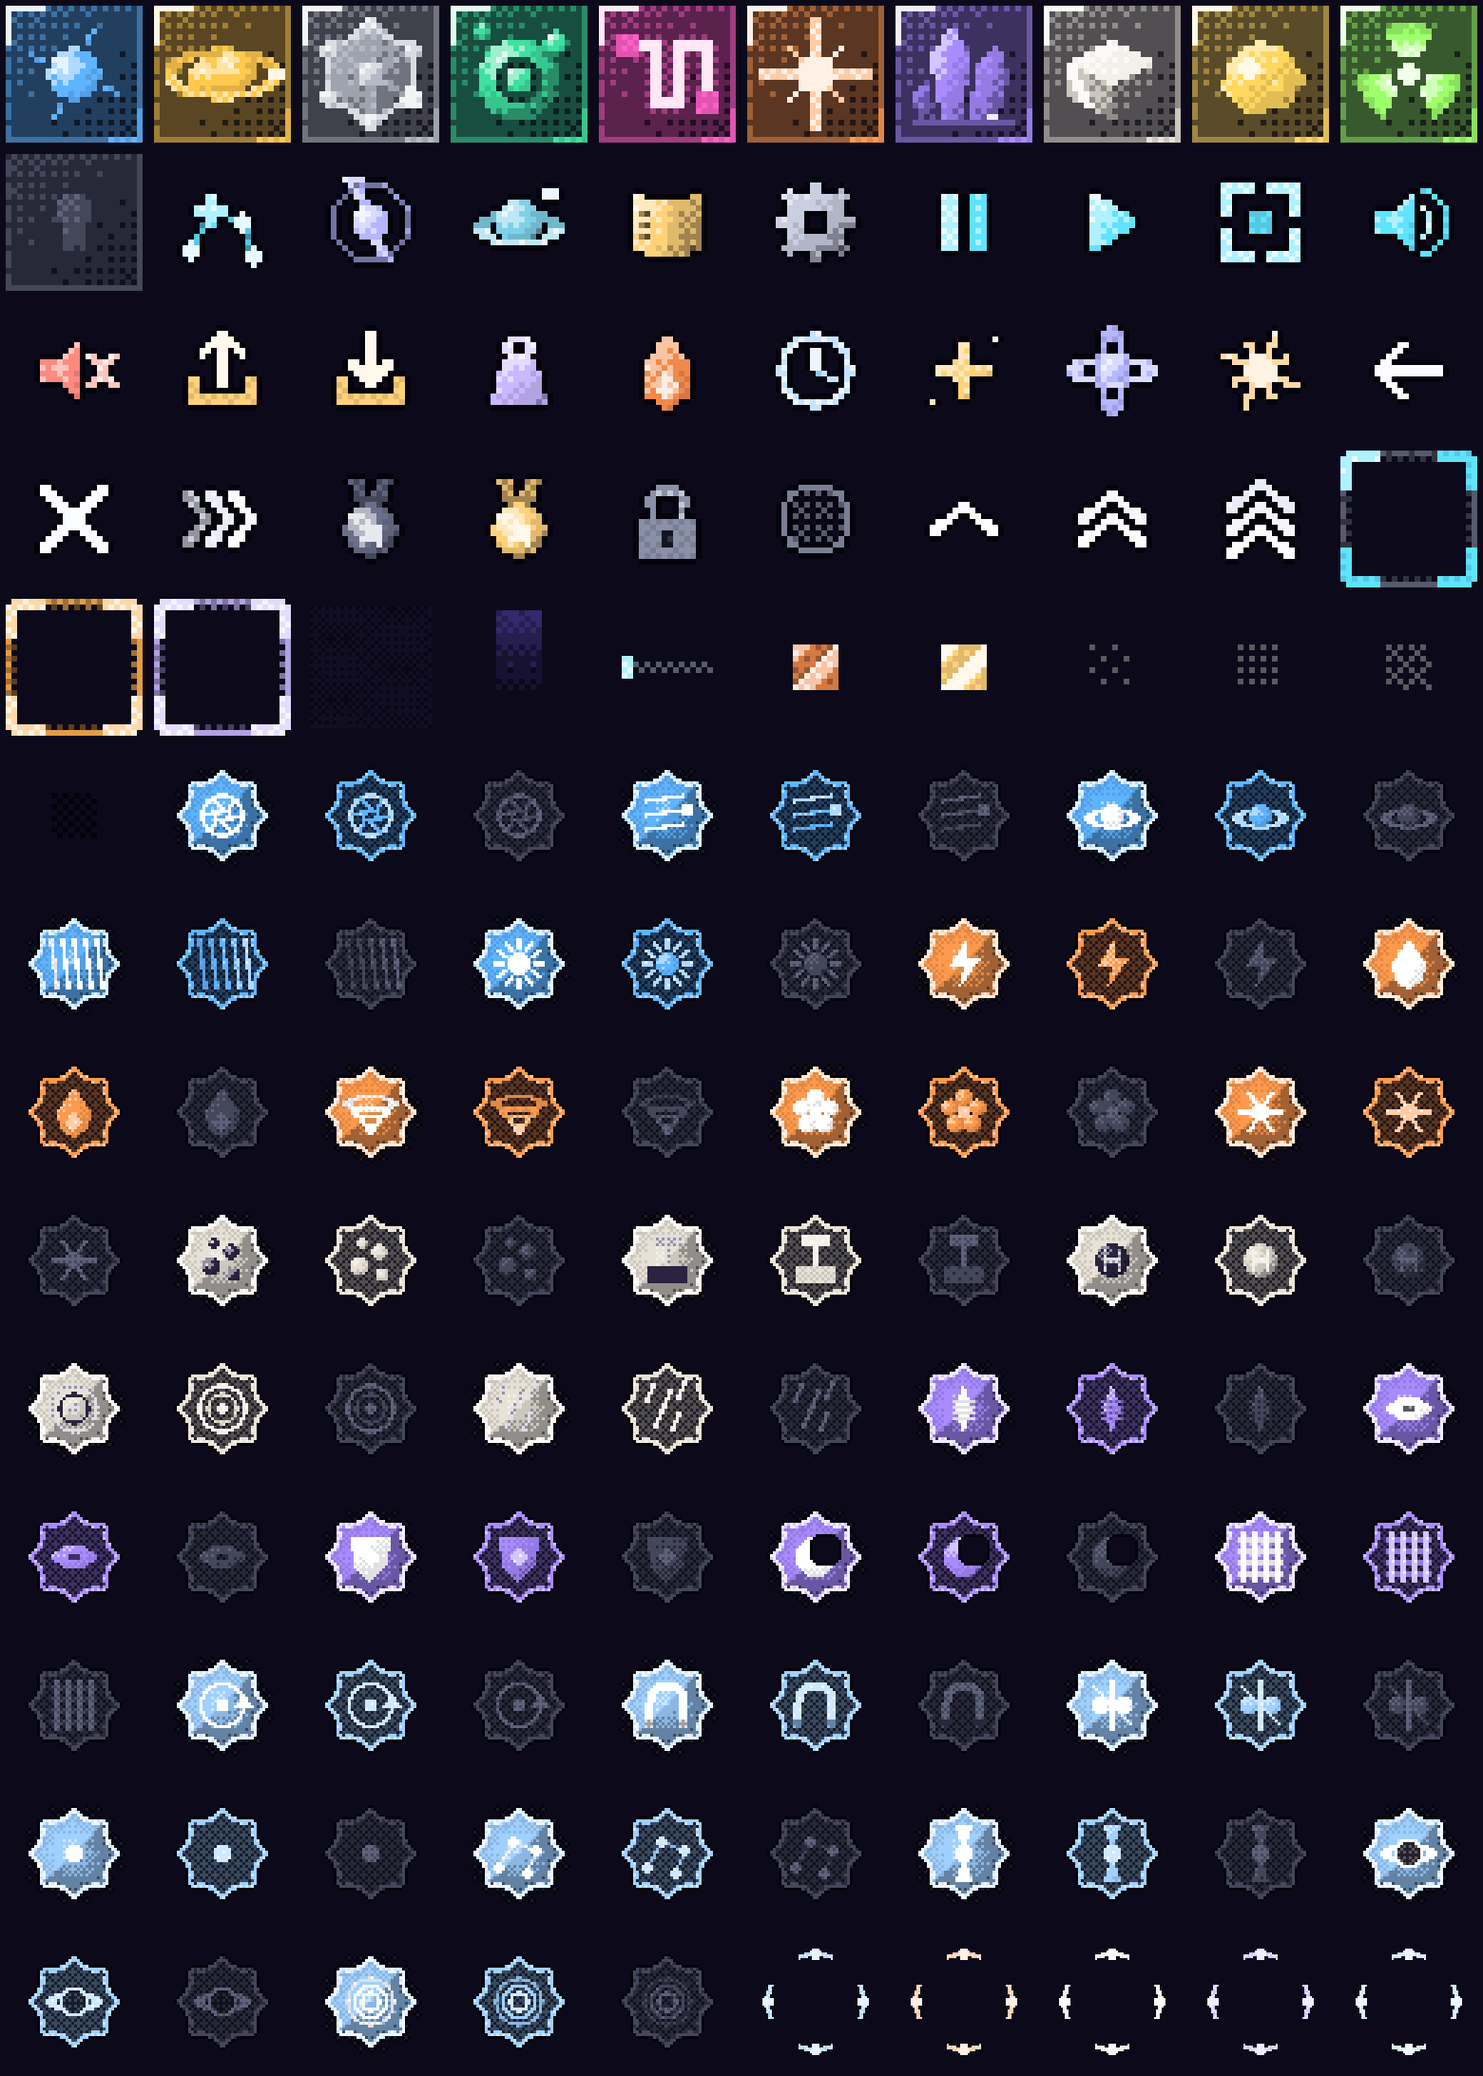
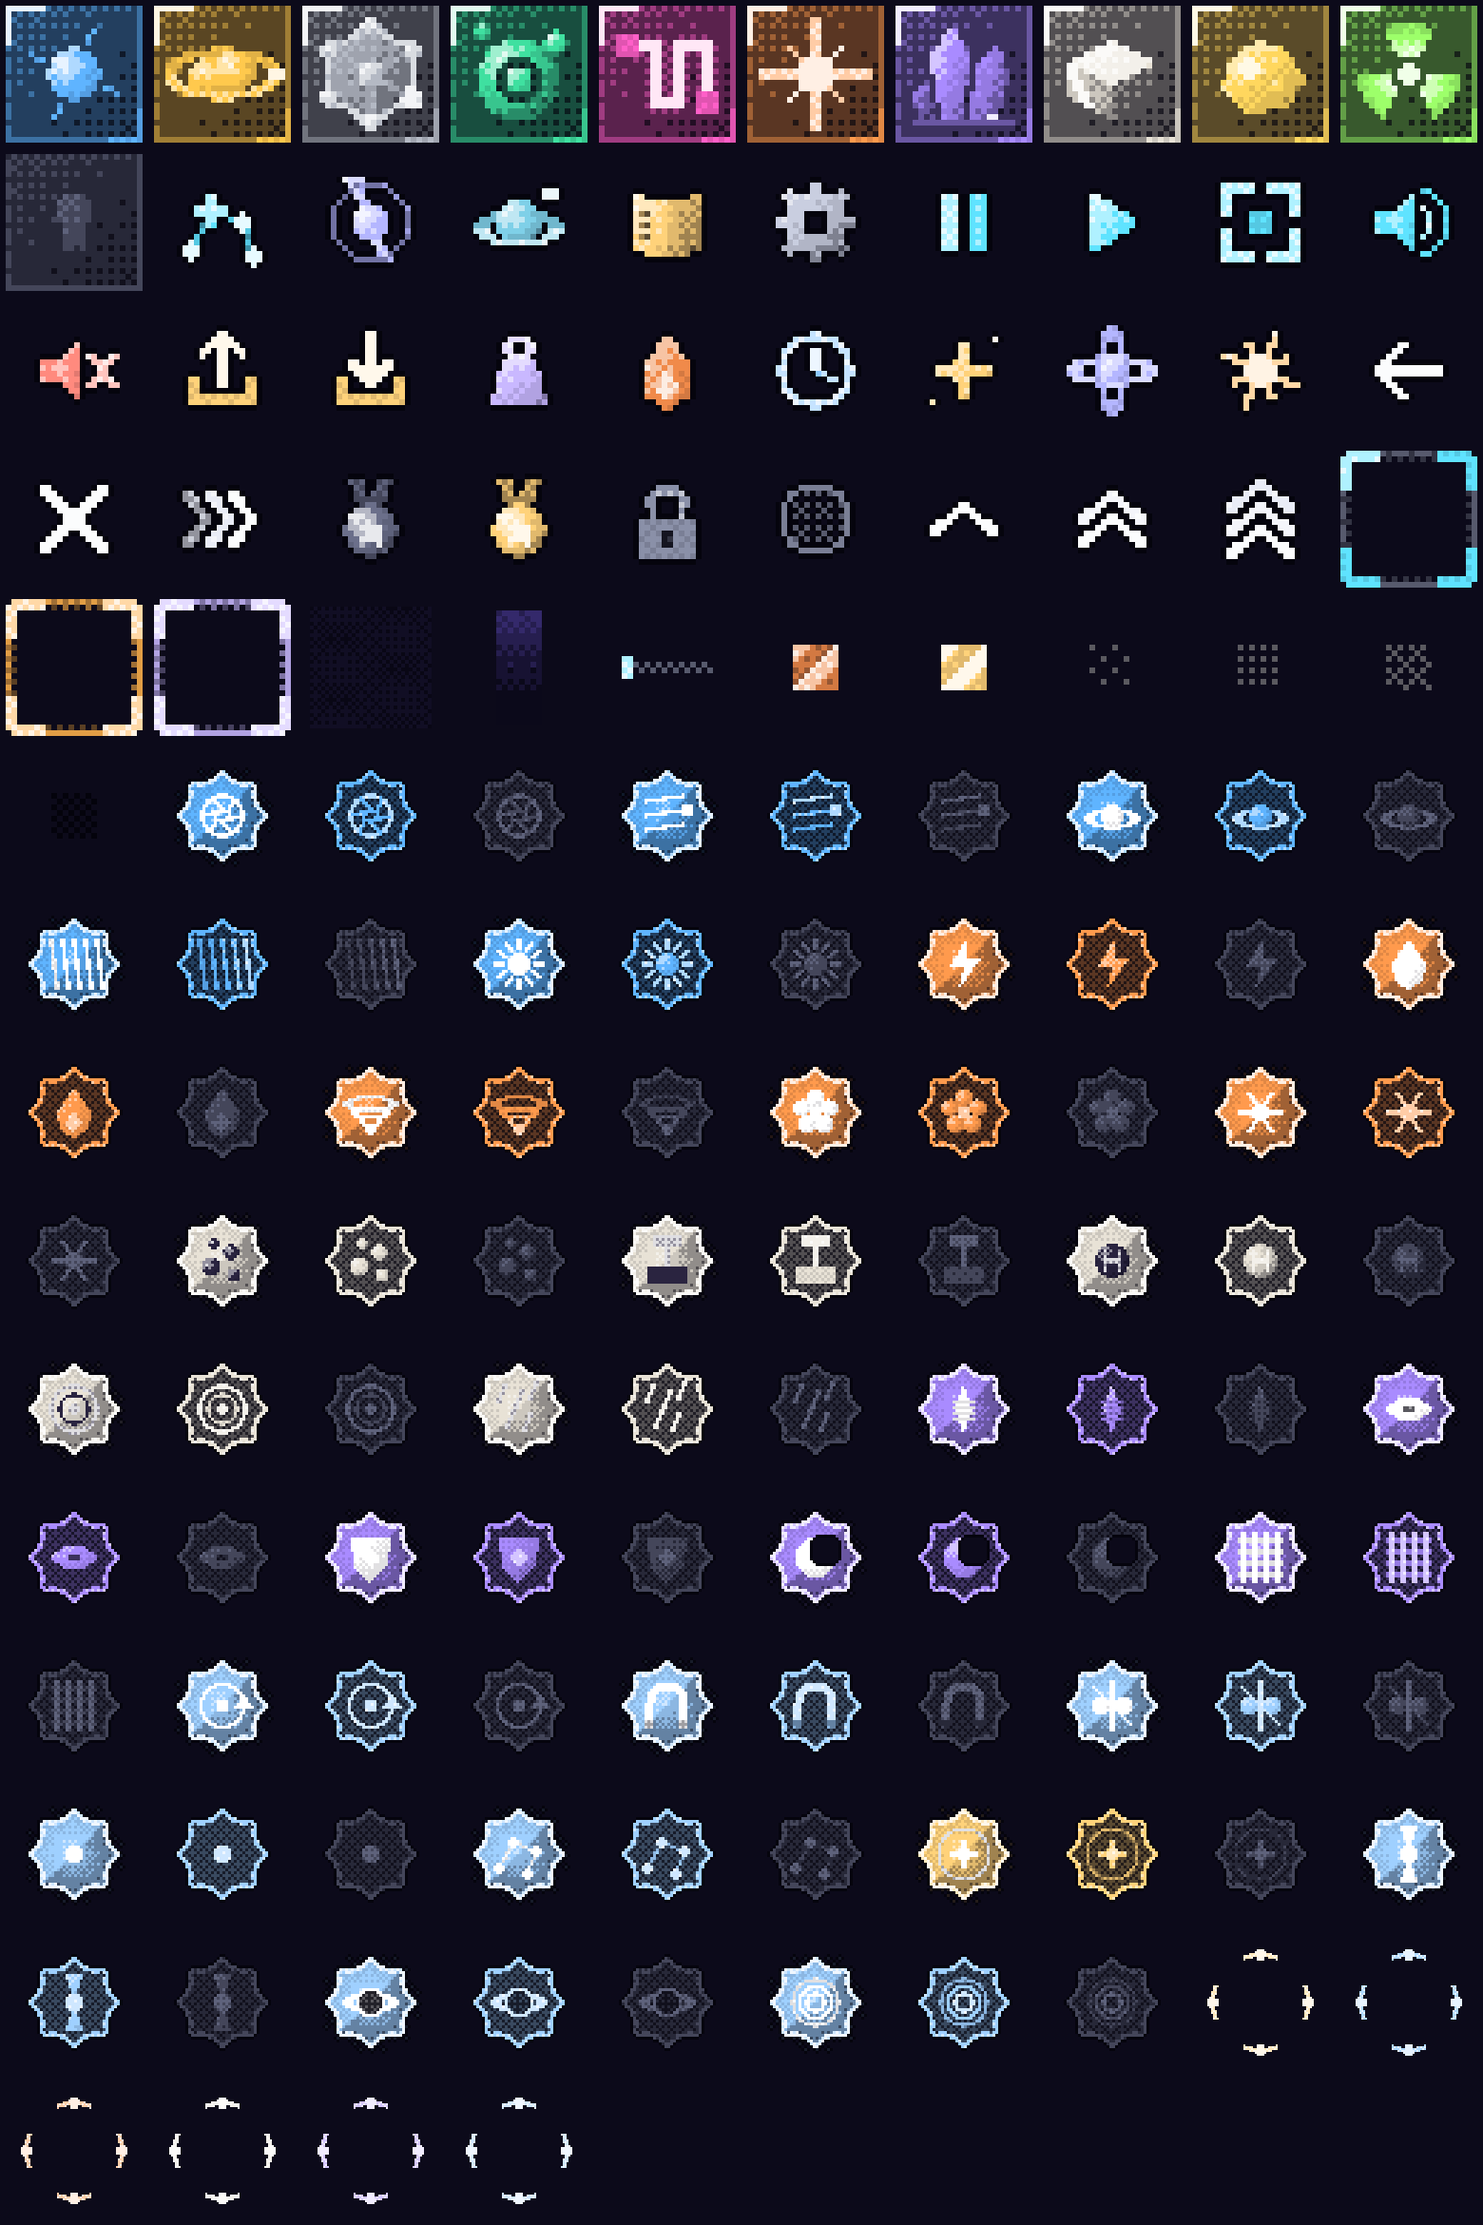
Starwright: deep stars buy control, map layout and button fixes
Deep stars panel under the star map (count, +4% each, one Light one button) once every star is lit. Iron rain moved clear of Full loom; star card sits beside the zoomed star; buy button text readable; phone chart header wraps.

diff --git a/components/starwright/star-chart.tsx b/components/starwright/star-chart.tsx
@@ -5,7 +5,7 @@
 // map onto it and opens a card beside it with the buff written large; clicking a ready star again, Enter, or the card's button
 // lights it. Clicking empty sky zooms back out, and a second click closes the map.
 import { useCallback, useEffect, useLayoutEffect, useRef, useState, type CSSProperties } from "react";
-import { CONSTELLATIONS, type Perk } from "@/lib/starwright/data";
+import { CONSTELLATIONS, TUNE, type Perk } from "@/lib/starwright/data";
 import { H, W, renderBackdrop } from "@/lib/starwright/art";
 import { fmt, perkReady } from "@/lib/starwright/engine";
 import { Gl, Ic, ui } from "./sw-ui";
@@ -44,7 +44,7 @@ function buffs(p: Perk): Buff[] {
 
 type St = "own" | "buy" | "near" | "lock";
 
-export function StarChart({ title, list, owned, cur, curName, onBuy, onClose, constellations, leaving }: { title: string; list: Perk[]; owned: string[]; cur: number; curName: string; onBuy: (id: string) => void; onClose: () => void; constellations?: boolean; leaving?: boolean }) {
+export function StarChart({ title, list, owned, cur, curName, onBuy, onClose, constellations, leaving, deep }: { title: string; list: Perk[]; owned: string[]; cur: number; curName: string; onBuy: (id: string) => void; onClose: () => void; constellations?: boolean; leaving?: boolean; deep?: { n: number; cost: number; onBuy: () => void } }) {
     const [sel, setSel] = useState<string | null>(null);
     const [lit, setLit] = useState<string | null>(null);
     const [card, setCard] = useState<{ x: number; y: number; side: "r" | "l" } | null>(null);
@@ -80,8 +80,8 @@ export function StarChart({ title, list, owned, cur, curName, onBuy, onClose, co
             if (!node) return;
             const r = node.getBoundingClientRect();
             const vw = window.innerWidth;
-            const side = r.right + 340 < vw ? "r" : "l";
-            setCard({ x: side === "r" ? r.right + 12 : r.left - 12, y: r.top + r.height / 2, side });
+            const side = r.right + 380 < vw ? "r" : "l";
+            setCard({ x: side === "r" ? r.right + 44 : r.left - 44, y: r.top + r.height / 2, side });
         };
         const t = window.setTimeout(place, 540);
         window.addEventListener("resize", place);
@@ -196,7 +196,30 @@ export function StarChart({ title, list, owned, cur, curName, onBuy, onClose, co
                     <i className="sw-cn" data-c="tl" /><i className="sw-cn" data-c="tr" /><i className="sw-cn" data-c="bl" /><i className="sw-cn" data-c="br" />
                 </div>
             )}
+            {deep && <Deep deep={deep} cur={cur} open={list.every((p) => owned.includes(p.id)) || deep.n > 0} left={list.filter((p) => !owned.includes(p.id)).length} />}
             <p className="sw-chart-foot">{constellations ? "Stardust lights stars. They stay through every supernova and reset on a neutron star." : "Neutrons light the pulsar map. It stays until a black hole."} Click a star to look closer.</p>
+        </div>
+    );
+}
+
+/** Deep stars: the endless last row once every star is lit. One clear button, the count, and what the next one adds. */
+function Deep({ deep, cur, open, left }: { deep: { n: number; cost: number; onBuy: () => void }; cur: number; open: boolean; left: number }) {
+    const [pop, setPop] = useState(0);
+    const can = open && cur >= deep.cost;
+    const pct = Math.round(TUNE.deepBonus * 100);
+    return (
+        <div className="sw-deep" data-open={open ? "" : undefined} data-can={can ? "" : undefined} style={{ "--c": "#ffd27a" } as CSSProperties}>
+            <span className="sw-deep-art" key={pop} style={{ backgroundImage: `url("${ui(`node-deep-${open ? (deep.n > 0 ? "own" : "open") : "lock"}`)}")` }} />
+            <div className="sw-deep-copy">
+                <b>Deep stars <em>{deep.n}</em></b>
+                <span>{open ? <>Each adds <strong>+{pct}%</strong> to everything. Now <strong>+{Math.round(TUNE.deepBonus * deep.n * 100)}%</strong>.</> : `Light every star to reach them. ${left} left.`}</span>
+            </div>
+            {open && (
+                <button type="button" className="sw-sc-buy sw-deep-buy" disabled={!can} onClick={() => { deep.onBuy(); setPop((v) => v + 1); }} data-tip={`Deep star|+${pct}% everything|${fmt(deep.cost)} stardust`}>
+                    <span>{can ? "Light one" : `Need ${fmt(deep.cost - cur)}`}</span>
+                    <em><Ic n="stat-dust" s={1} /> {fmt(deep.cost)}</em>
+                </button>
+            )}
         </div>
     );
 }

diff --git a/app/camino/starwright.css b/app/camino/starwright.css
@@ -522,8 +522,8 @@ html.sw-route .sf-foot { display: none !important; }
 .sw-ready { color: var(--sw-cy) !important; font-weight: 500; animation: swPing 1.6s steps(2, end) infinite; }
 
 .sw-starcard { position: fixed; z-index: 35; width: 300px; padding: 12px 14px 14px; transform: translateY(-50%);
-    border: 8px solid transparent; border-image: url("/starwright/ui/frame.png?v=6") 8 fill / 8px / 0 stretch;
-    background: url("/starwright/ui/head.png?v=6") repeat-x, url("/starwright/ui/fill.png?v=6") repeat; background-size: 8px 20px, 32px 32px; background-color: #070616; background-clip: padding-box;
+    border: 8px solid transparent; border-image: url("/starwright/ui/frame.png?v=7") 8 fill / 8px / 0 stretch;
+    background: url("/starwright/ui/head.png?v=7") repeat-x, url("/starwright/ui/fill.png?v=7") repeat; background-size: 8px 20px, 32px 32px; background-color: #070616; background-clip: padding-box;
     box-shadow: 6px 6px 0 rgba(0, 0, 0, .55); animation: swCardIn .3s steps(5, end) both; }
 .sw-starcard[data-side="l"] { transform: translate(-100%, -50%); }
 .sw-starcard > .sw-cn { border-color: var(--c); }
@@ -556,3 +556,27 @@ html.sw-route .sf-foot { display: none !important; }
 @media (max-width: 900px) { .sw-chart[data-zoomed] .sw-svg { min-width: 0; } }
 .sw-nodedes { opacity: 0; transition: opacity .15s steps(2, end); }
 .sw-node:hover .sw-nodedes, .sw-node:focus-visible .sw-nodedes, .sw-node[data-sel] .sw-nodedes { opacity: 1; }
+
+/* deep stars: the endless last row, docked bottom right of the map */
+.sw-deep { position: absolute; right: 16px; bottom: 36px; z-index: 2; display: grid; grid-template-columns: 56px minmax(0, 1fr) auto; align-items: center; gap: 12px; width: min(480px, calc(100% - 32px)); padding: 8px 10px;
+    border: 8px solid transparent; border-image: url("/starwright/ui/frame-warm.png?v=7") 8 fill / 8px / 0 stretch; background: url("/starwright/ui/fill.png?v=7"); background-size: 32px 32px; background-color: #0c0814; background-clip: padding-box; box-shadow: 4px 4px 0 rgba(0, 0, 0, .55); }
+.sw-deep:not([data-open]) { border-image-source: url("/starwright/ui/frame.png?v=7"); opacity: .8; }
+.sw-deep-art { width: 56px; height: 56px; background-size: 100% 100%; image-rendering: pixelated; animation: swLitPop .6s steps(6, end); }
+.sw-deep[data-can] .sw-deep-art { filter: drop-shadow(0 0 8px #ffd27a); }
+.sw-deep-copy b { display: flex; align-items: baseline; gap: 10px; font: 600 13px var(--cm-mono, monospace); letter-spacing: .12em; text-transform: uppercase; color: #ffd27a; }
+.sw-deep-copy b em { font: 700 22px/1 var(--cm-mono, monospace); font-style: normal; color: var(--sw-ink); }
+.sw-deep-copy span { font-size: 12.5px; color: var(--sw-dim); }
+.sw-deep-copy strong { color: #ffd27a; font-weight: 600; }
+.sw-deep-buy { width: auto; margin: 0; min-width: 150px; }
+@media (max-width: 900px) {
+    .sw-deep { position: relative; right: auto; bottom: auto; margin: 0 10px 6px; width: auto; grid-template-columns: 48px minmax(0, 1fr); }
+    .sw-deep-art { width: 48px; height: 48px; }
+    .sw-deep-buy { grid-column: 1 / -1; }
+    .sw-chart { grid-template-rows: auto minmax(0, 1fr) auto auto auto; }
+}
+.sw-chart { grid-template-rows: auto minmax(0, 1fr) auto auto; }
+.sw-deep { position: relative; right: auto; bottom: auto; justify-self: end; margin: 0 16px 4px; }
+.sw-root .sw-sc-buy, .sw-chart .sw-sc-buy { color: #05040c; }
+.sw-chart .sw-sc-buy:disabled { color: var(--sw-dim); }
+.sw-ready { white-space: nowrap; }
+@media (max-width: 560px) { .sw-chart-top { flex-wrap: wrap; gap: 4px 12px; margin: 8px 8px 0; } .sw-chart-top .sw-x { position: absolute; top: 4px; right: 4px; } .sw-chart-top h2 { padding-right: 44px; } }

diff --git a/components/starwright/starwright.tsx b/components/starwright/starwright.tsx
@@ -13,7 +13,7 @@ import { play, setSound, soundOn } from "@/lib/starwright/sound";
 import { H, W, makeLayers, render, renderLayered, type SceneFrame } from "@/lib/starwright/art";
 import { initSprites, sprites } from "@/lib/starwright/sprites";
 import {
-    SAVE_KEY, answer, guide, blackHole, buy, checkAch, chooseCloud, eventOf, rowMult, buyPerk, buyPlanet, buyPulsar, canBlackHole, canBuy, canNeutron, canPlanet, canSupernova, catchUp,
+    SAVE_KEY, answer, guide, blackHole, buy, checkAch, chooseCloud, eventOf, rowMult, buyPerk, buyDeep, deepCost, buyPlanet, buyPulsar, canBlackHole, canBuy, canNeutron, canPlanet, canSupernova, catchUp,
     collapse, cost, effects, fmt, fmtAge, fmtHeat, fresh, gateMK, heaviest, horizonNeed, levels, load, mass, neutronGain, neutronStar,
     offlineCapS, perkReady, planetStage, rowOpen, seeds, serialize, stageOf, step, supernova, type State,
 } from "@/lib/starwright/engine";
@@ -438,7 +438,7 @@ export function Starwright() {
                 <Corners />
             </section>
 
-            {shown === "stars" && <StarChart title="Constellations" list={PERKS} owned={s.perks} cur={s.stardust} curName="stardust" onBuy={(id) => act((x) => buyPerk(x, id))} onClose={() => setPanel(null)} constellations leaving={leaving} />}
+            {shown === "stars" && <StarChart title="Constellations" list={PERKS} owned={s.perks} cur={s.stardust} curName="stardust" onBuy={(id) => act((x) => buyPerk(x, id))} onClose={() => setPanel(null)} constellations leaving={leaving} deep={{ n: s.deep, cost: deepCost(s), onBuy: () => act((x) => { buyDeep(x); }) }} />}
             {shown === "pulsar" && <StarChart title="Pulsar map" list={PULSAR_PERKS} owned={s.pulsar} cur={s.neutrons} curName="neutrons" onBuy={(id) => act((x) => buyPulsar(x, id))} onClose={() => setPanel(null)} leaving={leaving} />}
             {shown === "orbit" && <Orbit s={s} onBuy={(id) => act((x) => { if (buyPlanet(x, id)) note(`${PLANETS.find((p) => p.id === id)?.name} forms in orbit.`); })} onClose={() => setPanel(null)} leaving={leaving} />}
             {shown === "almanac" && <Almanac s={s} onClose={() => setPanel(null)} leaving={leaving} />}

diff --git a/lib/starwright/data.ts b/lib/starwright/data.ts
@@ -119,7 +119,7 @@ export const PERKS: Perk[] = [
     { id: "a2", con: "anvil", name: "Dense core", desc: "The core collapses with 25% less iron.", cost: 72, req: ["a1"], at: [86, 33], fx: { need: 0.25 } },
     { id: "a3", con: "anvil", name: "Remnant", desc: "Each star begins with 100,000 hydrogen.", cost: 150, req: ["a2"], at: [73, 44], fx: { startH: 1e5 } },
     { id: "a4", con: "anvil", name: "Supershell", desc: "Stardust from a supernova x1.5.", cost: 540, req: ["a2"], at: [88, 55], fx: { stardust: 1.5 } },
-    { id: "a5", con: "anvil", name: "Iron rain", desc: "Stardust from a supernova x2.", cost: 1800, req: ["a3", "a4"], at: [80, 73], fx: { stardust: 2 } },
+    { id: "a5", con: "anvil", name: "Iron rain", desc: "Stardust from a supernova x2.", cost: 1800, req: ["a3", "a4"], at: [93, 70], fx: { stardust: 2 } },
     { id: "w1", con: "loom", name: "Spindle", desc: "Autoburn: Hydrogen and Helium buy their own tier I.", cost: 48, req: [], at: [20, 80], fx: { auto: 2 } },
     { id: "w2", con: "loom", name: "Shuttle", desc: "Autoburn reaches up to Oxygen.", cost: 180, req: ["w1"], at: [34, 89], fx: { auto: 2 } },
     { id: "w3", con: "loom", name: "Survivors", desc: "Planets keep their age through a supernova.", cost: 300, req: ["w2"], at: [49, 80], fx: { keepPlanets: 1 } },

diff --git a/components/starwright/sw-ui.tsx b/components/starwright/sw-ui.tsx
@@ -8,7 +8,7 @@ import { loadSheets, onSheets, sheetUrl } from "@/lib/starwright/ui-sheets";
 import { ELEMENTS } from "@/lib/starwright/data";
 
 /** This thread's drawn GUI art (scripts/starwright/ui-art/build.py writes public/starwright/ui). Bump UI_V when it changes. */
-export const UI_V = 6;
+export const UI_V = 7;
 export const ui = (name: string) => `/starwright/ui/${name}.png?v=${UI_V}`;
 /** Glyph names that have a drawn 16px icon in the ui set. */
 const UI_GLYPH: Record<string, string> = {

diff --git a/scripts/starwright/ui-art/build.py b/scripts/starwright/ui-art/build.py
@@ -534,7 +534,7 @@ save(c.image(), "scrim")
 
 
 # ---- star chart nodes: 40 x 40 medallions, one per perk, with art for what the perk does ----------------------------------
-CONS = {"lantern": "#5fb4ff", "kiln": "#ff9a4d", "anvil": "#e8e2d6", "loom": "#a98bff", "pulsar": "#9fd0ff"}
+CONS = {"deep": "#ffd27a", "lantern": "#5fb4ff", "kiln": "#ff9a4d", "anvil": "#e8e2d6", "loom": "#a98bff", "pulsar": "#9fd0ff"}
 # perk id -> (constellation, glyph). Keep in step with PERKS / PULSAR_PERKS in lib/starwright/data.ts.
 NODES = {
     "l1": ("lantern", "aperture"), "l2": ("lantern", "stream"), "l3": ("lantern", "halo"), "l4": ("lantern", "veil"), "l5": ("lantern", "corona"),
@@ -542,7 +542,7 @@ NODES = {
     "a1": ("anvil", "seeds"), "a2": ("anvil", "press"), "a3": ("anvil", "remnant"), "a4": ("anvil", "shell"), "a5": ("anvil", "rain"),
     "w1": ("loom", "spindle"), "w2": ("loom", "shuttle"), "w3": ("loom", "shield"), "w4": ("loom", "moon"), "w5": ("loom", "weave"),
     "p1": ("pulsar", "spin"), "p2": ("pulsar", "magnet"), "p3": ("pulsar", "kilonova"), "p4": ("pulsar", "afterglow"), "p5": ("pulsar", "embersky"),
-    "p6": ("pulsar", "beam"), "p7": ("pulsar", "horizon"), "p8": ("pulsar", "echo"),
+    "deep": ("deep", "deep"), "p6": ("pulsar", "beam"), "p7": ("pulsar", "horizon"), "p8": ("pulsar", "echo"),
 }
 C0 = 20  # medallion centre
 
@@ -583,6 +583,7 @@ GLYPH = {
     "embersky": lambda c, k, v: [c.line(*a, *b, 1, k, v * .6) for a, b in [((C0 - 7, C0 + 5), (C0 - 2, C0 - 4)), ((C0 - 2, C0 - 4), (C0 + 6, C0 - 1)), ((C0 + 6, C0 - 1), (C0 + 3, C0 + 7))]] + [c.ball(x, y, 1.8, k, v, v, light=False) for x, y in [(C0 - 7, C0 + 5), (C0 - 2, C0 - 4), (C0 + 6, C0 - 1), (C0 + 3, C0 + 7)]],
     "beam": lambda c, k, v: (c.poly([(C0, C0), (C0 - 3, C0 - 10), (C0 + 3, C0 - 10)], k, v * .6, v), c.poly([(C0, C0), (C0 - 3, C0 + 10), (C0 + 3, C0 + 10)], k, v * .6, v), c.ball(C0, C0, 3, k, v, v, light=False)),
     "horizon": lambda c, k, v: (c.ring(C0, C0, 8, 3, 1.4, k, v), c.ball(C0, C0, 4.5, k, 0, .05, light=False), c.ring(C0, C0, 4.8, 4.8, 1, k, v)),
+    "deep": lambda c, k, v: (c.ring(C0, C0, 9, 9, 1, k, v * .5), c.poly([(C0 + 7 * math.cos(a) * (1 if i % 2 == 0 else .35), C0 + 7 * math.sin(a) * (1 if i % 2 == 0 else .35)) for i, a in enumerate([j * math.pi / 4 - math.pi / 2 for j in range(8)])], k, v * .7, v), c.ball(C0, C0, 1.6, k, v, v, light=False)),
     "echo": lambda c, k, v: [c.ring(C0, C0, r, r, 1.2, k, v * (1 - i * .22)) for i, r in enumerate((3, 5.5, 8))],
 }
 
